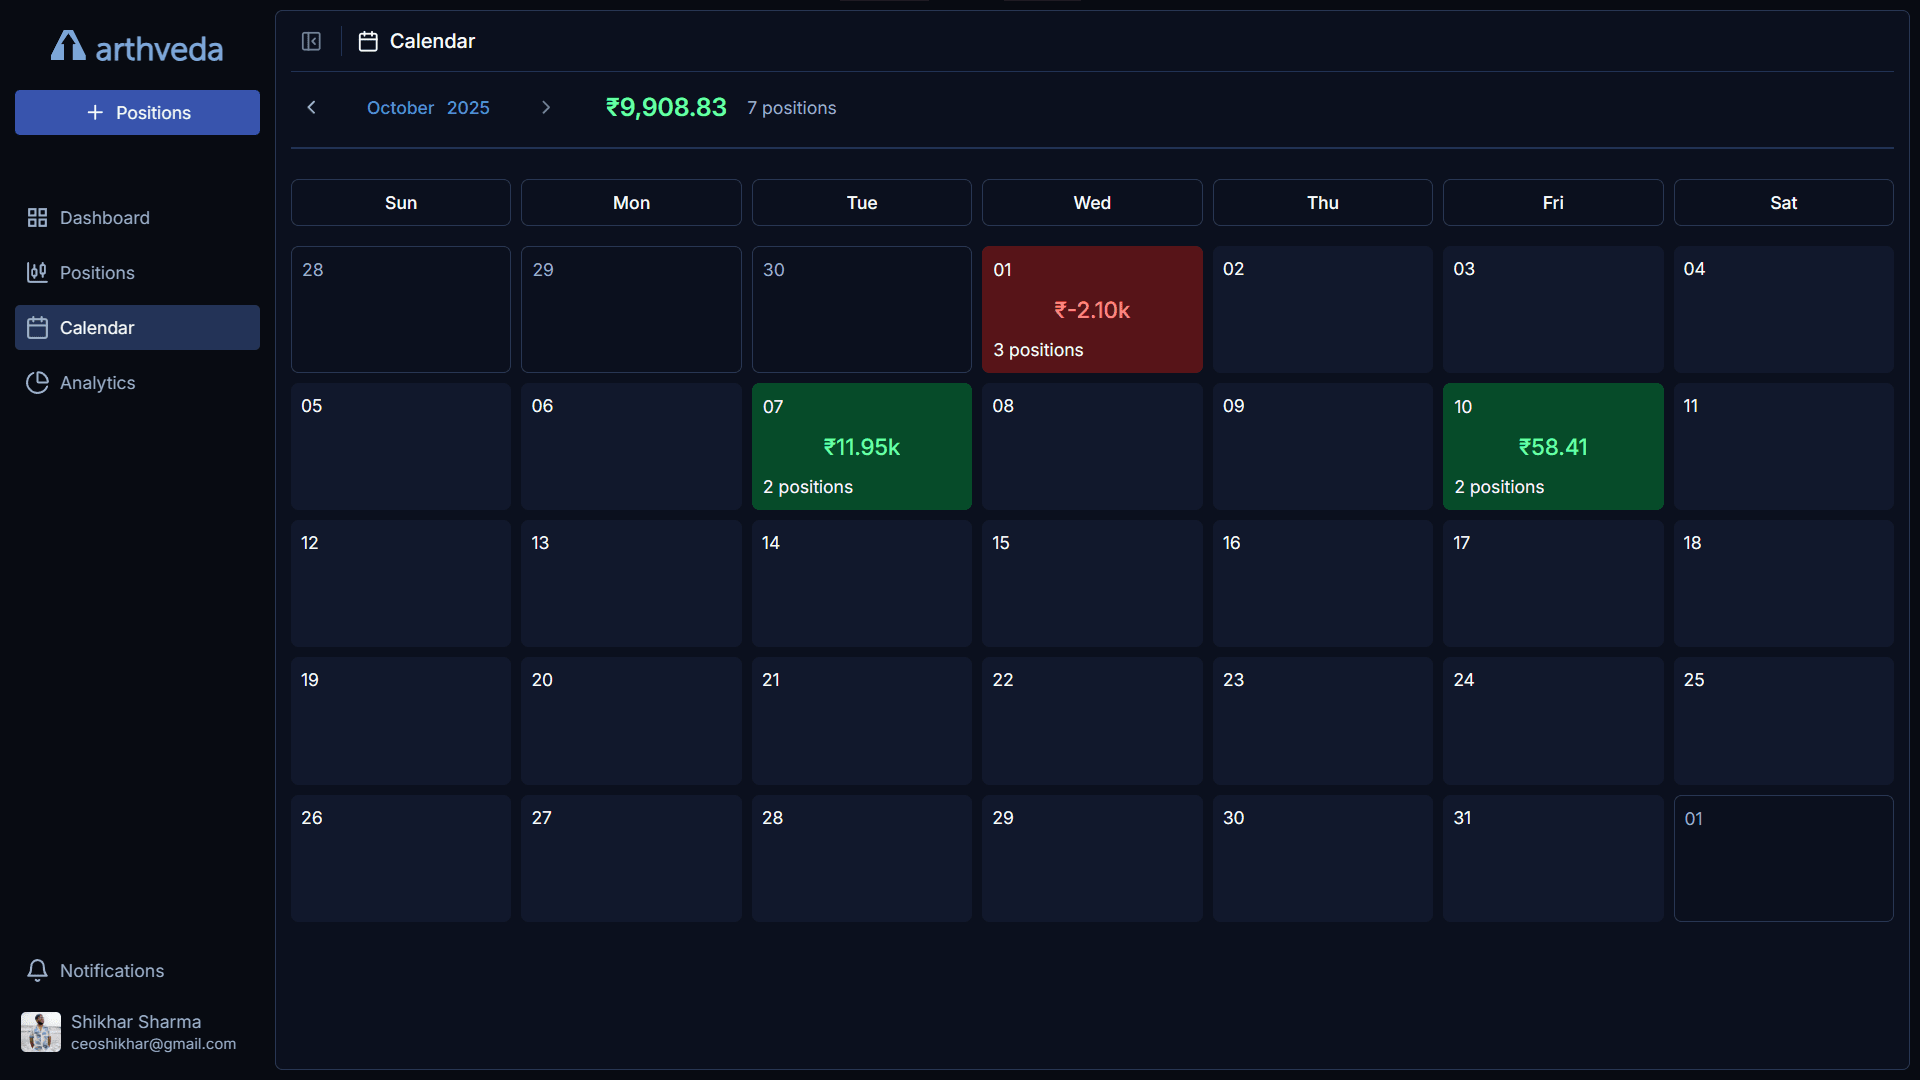
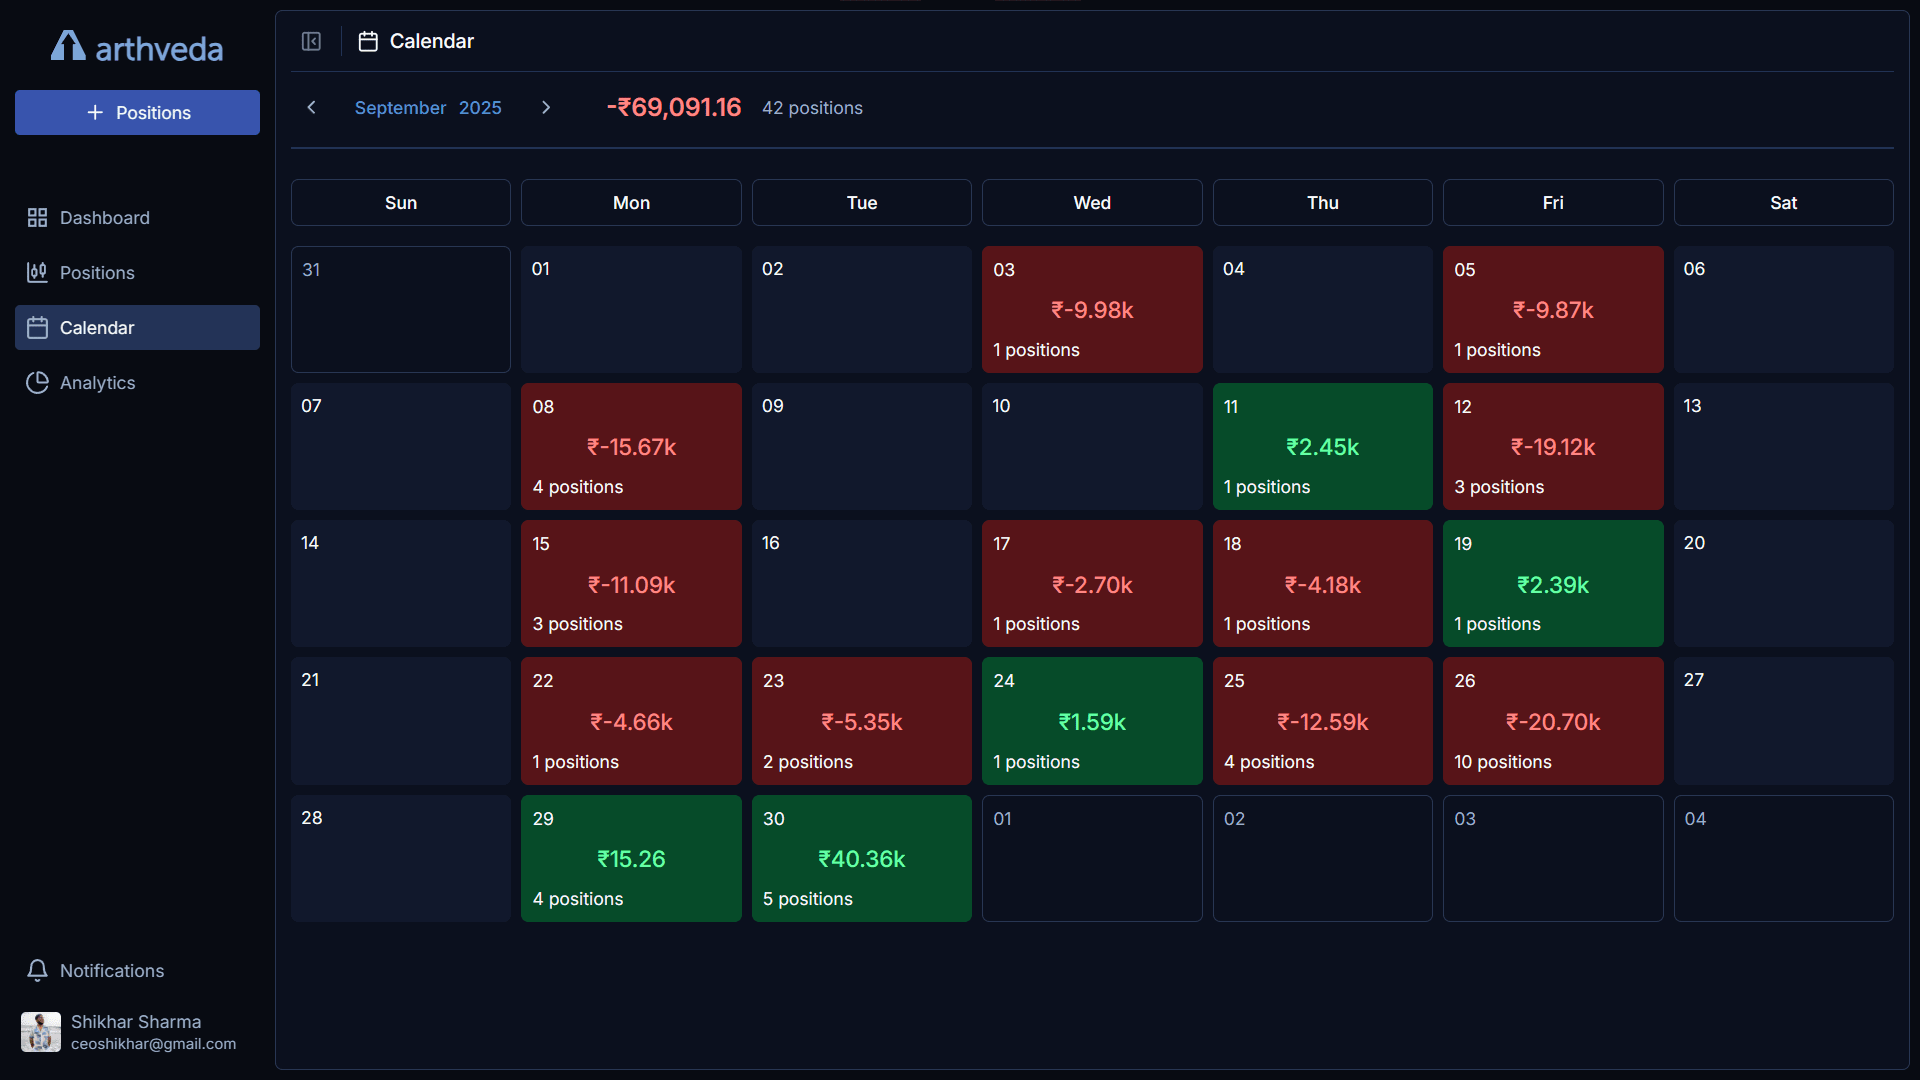
update get started button text and calendar screenshot

diff --git a/components/get_started.tsx b/components/get_started.tsx
@@ -1,6 +1,7 @@
 "use client";
 
 import posthog from "posthog-js";
+import { ArrowRight as IconRight } from "lucide-react";
 
 import { Button } from "@/ui/button";
 import { cn } from "@/lib/utils";
@@ -23,7 +24,8 @@ export const GetStarted = ({ shortened }: { shortened?: boolean }) => {
                         }
                     )}
                 >
-                    TRY ARTHVEDA FREE {!shortened && "FOR 30-DAYS"}
+                    {/* TRY ARTHVEDA FREE {!shortened && "FOR 30-DAYS"} */}
+                    Start journaling <IconRight size={22} strokeWidth={3} />
                 </Button>
             </a>
         </div>

diff --git a/components/hero.tsx b/components/hero.tsx
@@ -27,11 +27,11 @@ export default function Hero() {
                 {/* <OpenDemo /> */}
                 <GetStarted />
 
-                <div className="h-4" />
+                {/* <div className="h-4" />
 
                 <p className=" text-xs sm:text-base text-text-muted italic font-moniker text-center">
                     No credit card required.
-                </p>
+                </p> */}
             </footer>
 
             <div className="h-15" />
